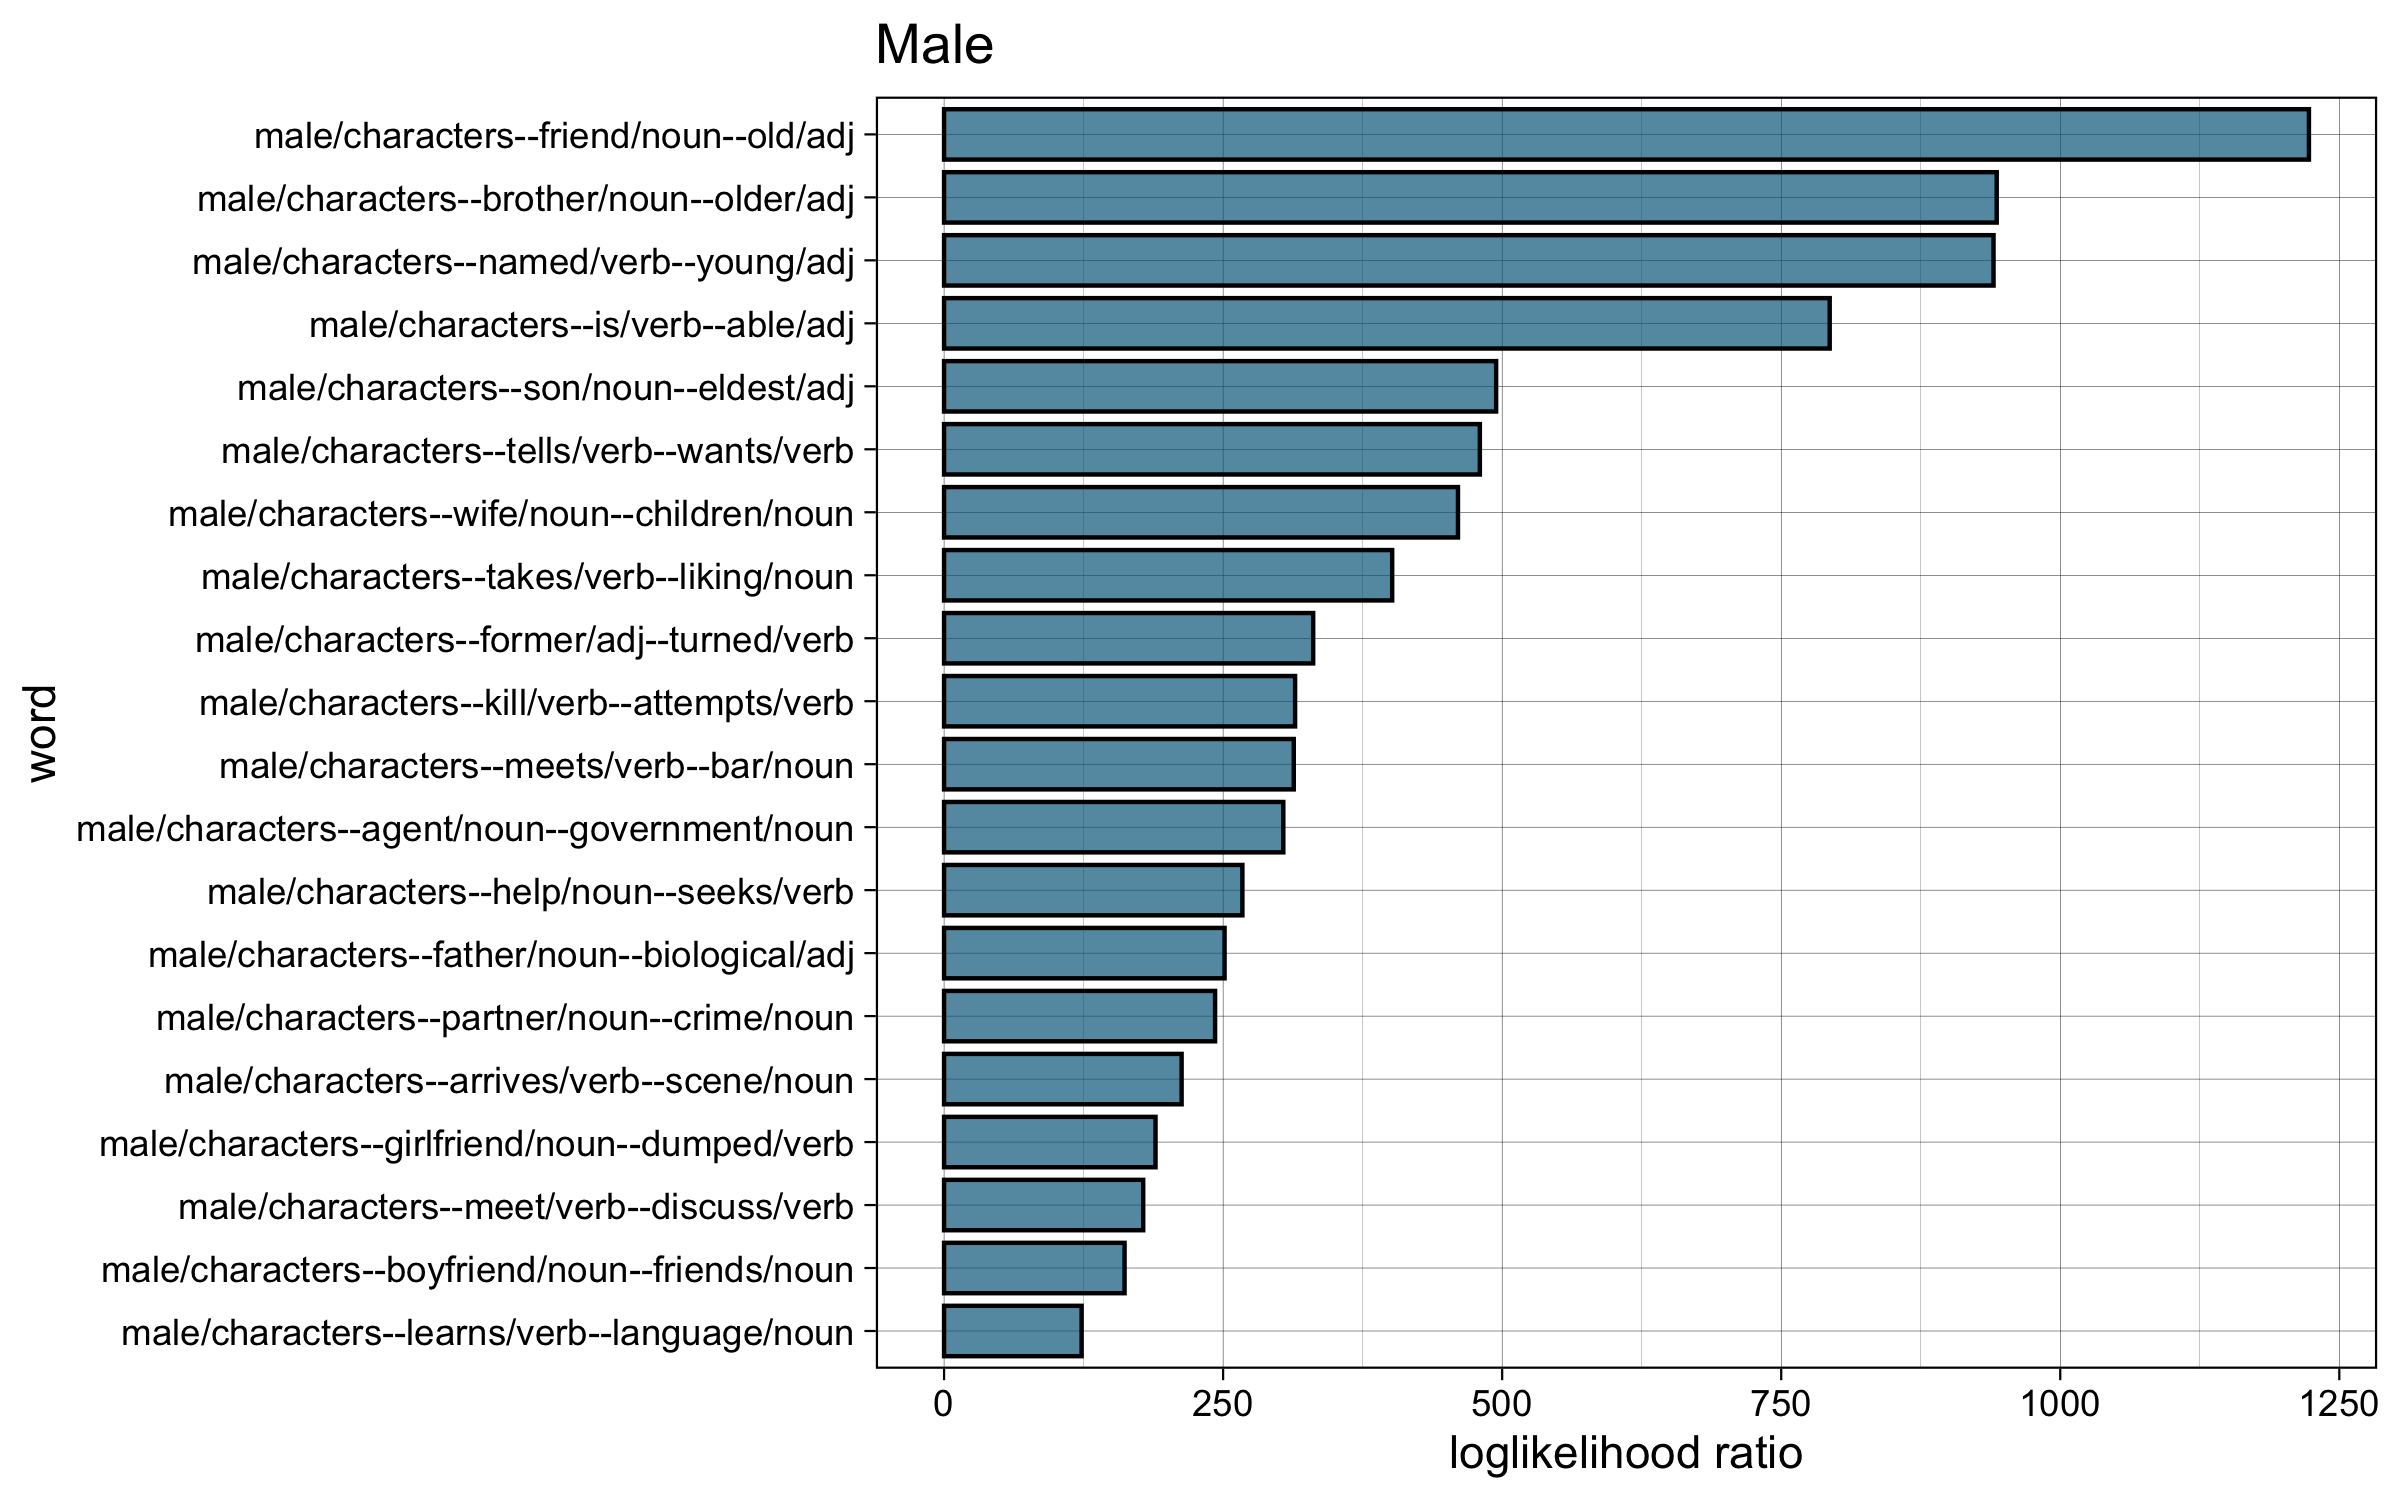
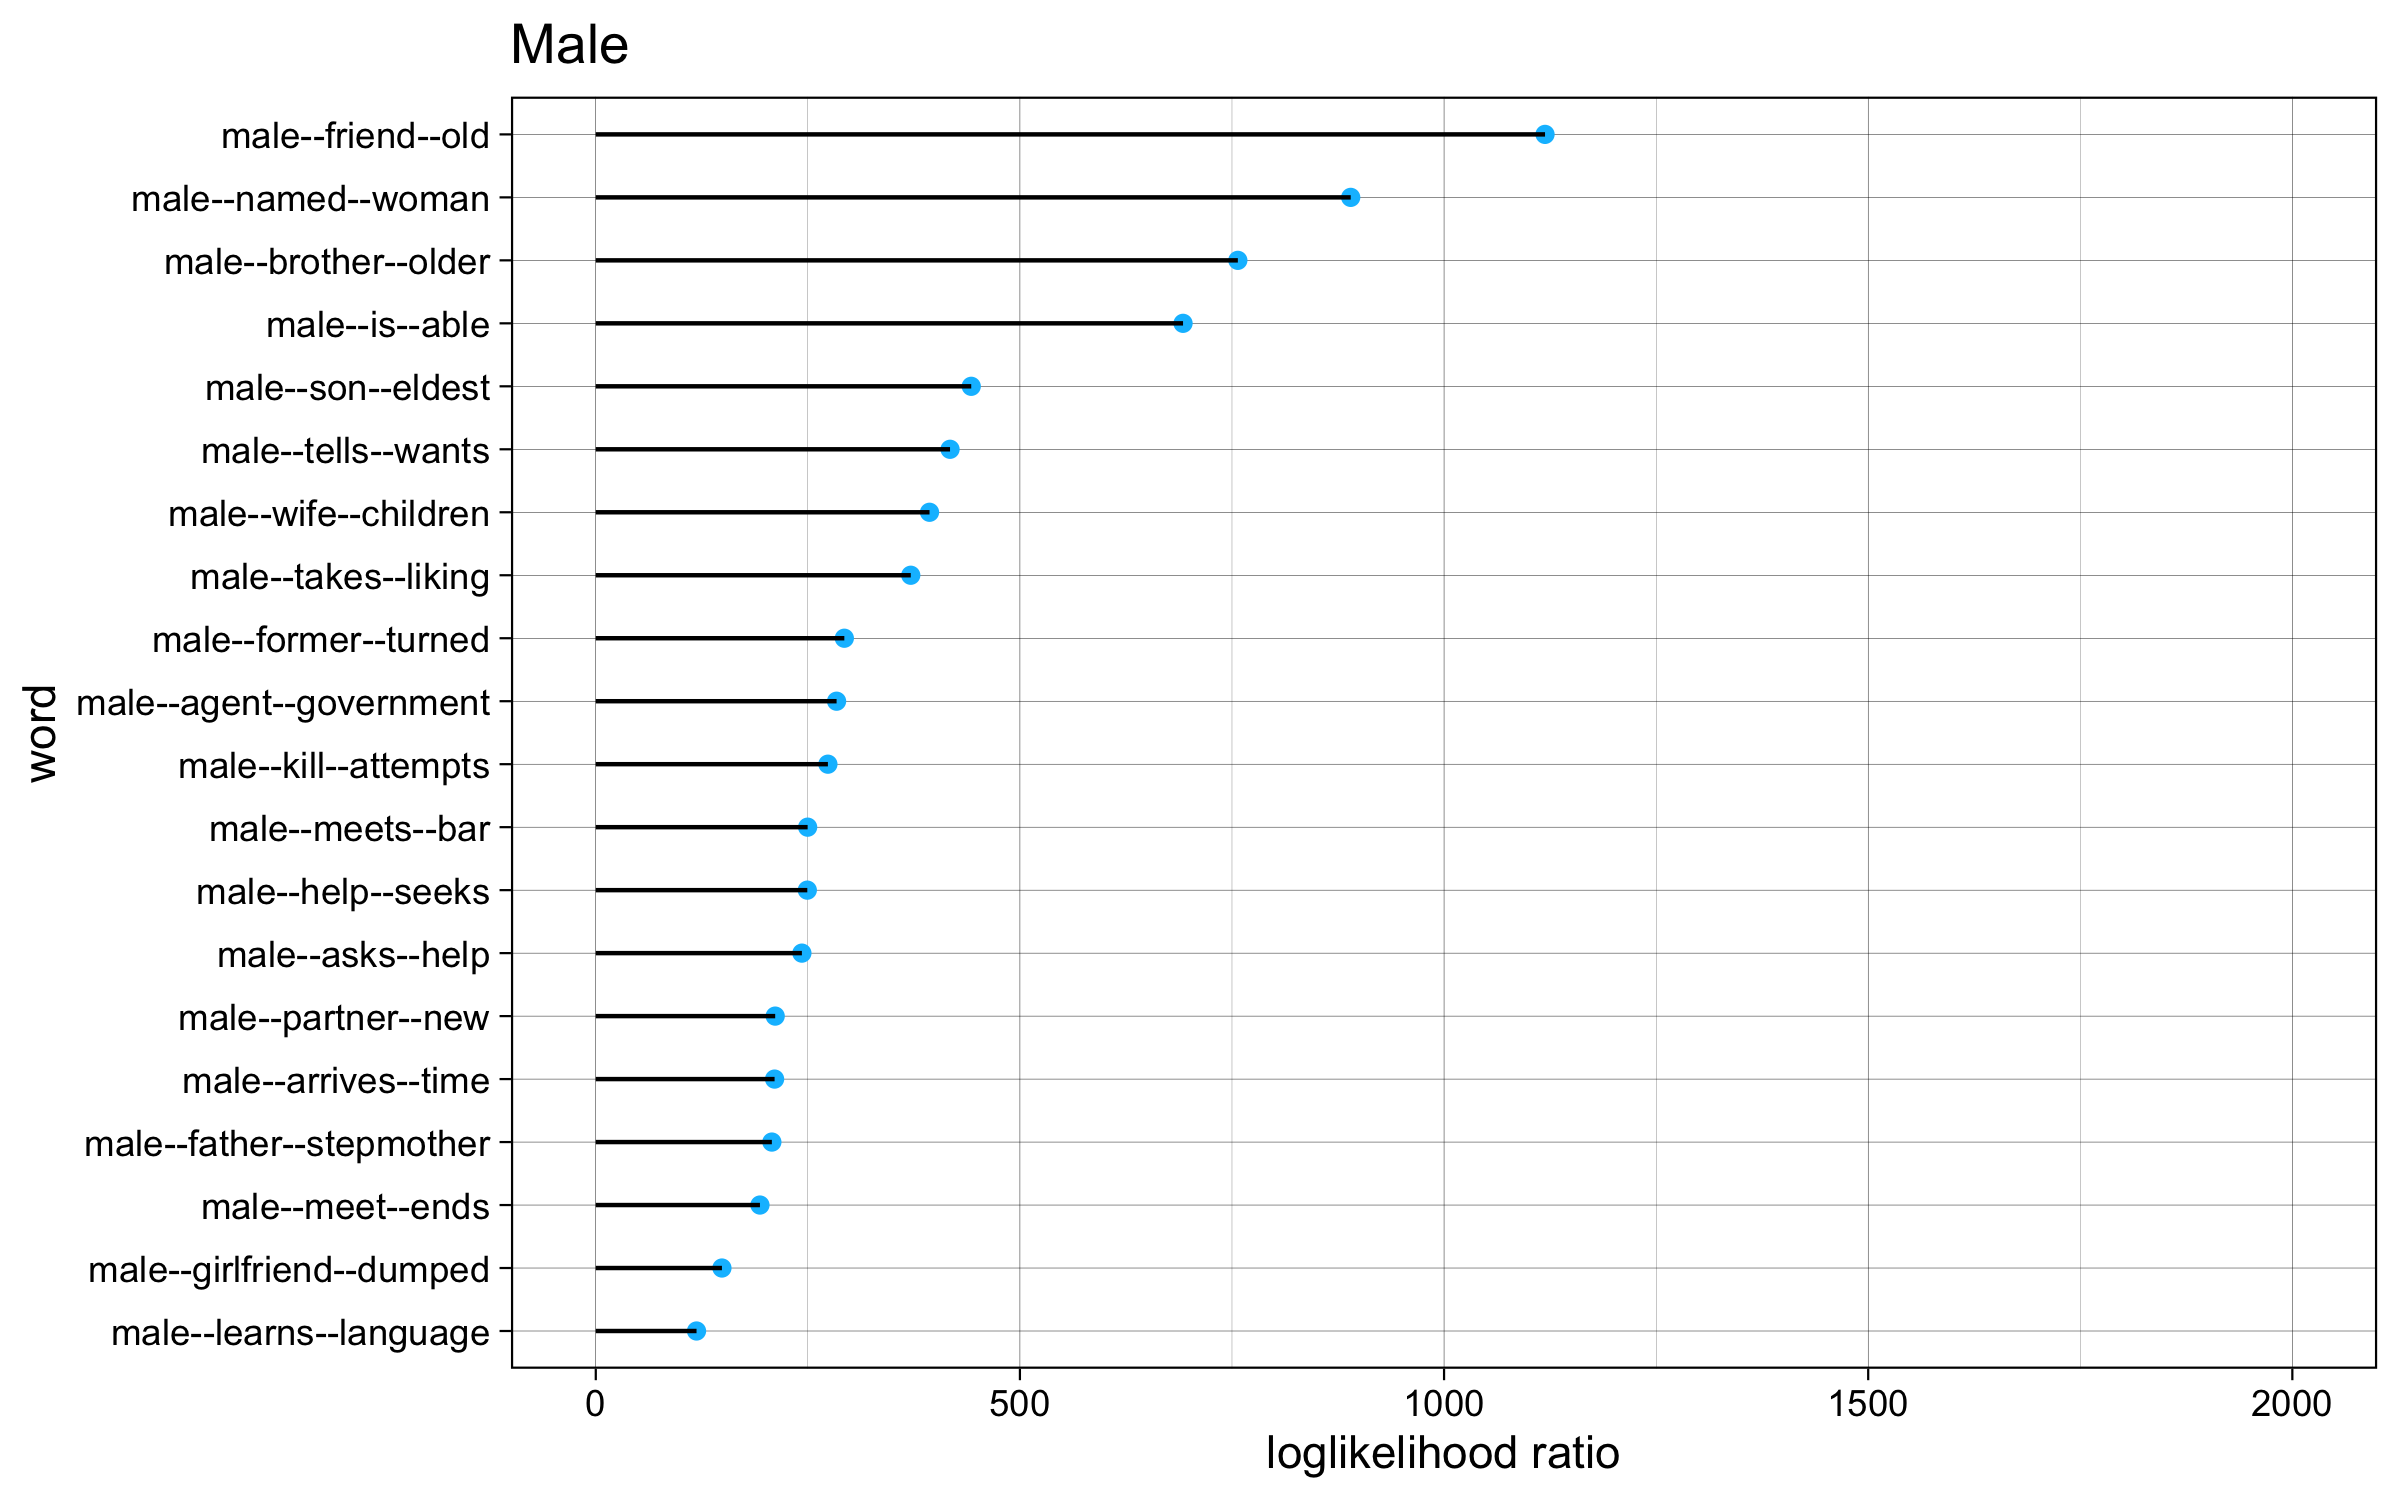
change bar plot to line plot

diff --git a/docs/README.md b/docs/README.md
@@ -677,7 +677,7 @@ fprimary_tropes = female_ps
 # Most Common Roles, Actions and Descriptions
 
 ``` r
-ll_bar <- function(pos = 'noun', n = 21, ylimit = 1800){
+ll_bar <- function(pos = 'noun', n = 21, xlimit = 1800, yax = 'noun'){
 graph = grapherdemo(21, token_filter3(pos, 1940, 2020, token.all))
 female_primary = graph[[2]] #20 female primary nodes
 male_primary = graph[[3]] #20 male primary nodes
@@ -687,76 +687,55 @@ male_primary = male_primary[names(male_primary) != 'female/characters']
 male_primary = male_primary[1:(n-1)]
 male_np = data.frame(word = names(male_primary), llr = male_primary)
 male_np$gender = 'male'
+male_np <- male_np %>% separate(word, c('word', NA), sep = '/')
 
-mn = ggplot(male_np, aes(x = reorder(word, llr), y = llr)) +
-  geom_bar(stat = 'identity', fill = 'deepskyblue4', 
-           alpha = 0.7, color = 'black') + coord_flip() +
-           xlab('word') + ylab('loglikelihood ratio') + ylim(0, ylimit) +
-           theme_linedraw() + theme(axis.title.x=element_blank(),
-                              axis.text.x=element_blank(),
-                              axis.ticks.x=element_blank()) +
-        ggtitle('Male')
+mn = ggplot(male_np, aes(y = reorder(word, llr), x = llr)) +
+   geom_point(color = 'deepskyblue') +
+   geom_segment(aes(x = 0, y = word, xend = llr, yend = word)) +
+   xlab('loglikelihood ratio') + ylab(yax) + theme_linedraw() +
+   ggtitle('Male') #+ ylim(0, 1200) # + geom_text(aes(label = round(llr, 2)), hjust=-0.3, size = 2) #+ coord_flip() 
 
 female_primary = female_primary[names(female_primary) != 'male/characters']
 female_primary = female_primary[1:20]
 female_np = data.frame(word = names(female_primary), llr = female_primary)
 female_np$gender = 'female'
 
-fn = ggplot(female_np, aes(x = reorder(word, -llr), y = llr)) +
-  geom_bar(stat = 'identity', fill = 'darkorange3', 
-           alpha = 0.7, color = 'black') + coord_flip() +
-           xlab('word') + ylab('loglikelihood ratio') + theme_linedraw() +
-  ylim(0, ylimit) + ggtitle('Female')
+female_np <- female_np %>% separate(word, c('word', NA), sep = '/')
+
+fn = ggplot(female_np, aes(y = reorder(word, -llr), x = llr)) +
+   geom_point(color = 'darkorange') +
+   geom_segment(aes(x = 0, y = word, xend = llr, yend = word)) +
+   xlab('loglikelihood ratio') + ylab(yax) + theme_linedraw() +
+   ggtitle('Female') #+ ylim(0, 1200)# + geom_text(aes(label = round(llr, 2)), hjust=-0.3, size = 2) #+ coord_flip() 
 
 par(mfrow=c(1,2))
 wordcloud(words = male_np$word, freq = male_np$llr, colors = 'deepskyblue3')
 wordcloud(words = female_np$word, freq = male_np$llr, colors = 'darkorange3')
 
-grid.arrange(mn, fn)
+grid.arrange(mn + xlim(0, xlimit), fn + xlim(0, xlimit))
 }
 ```
 
 ## Common Roles - Nouns
 
 ``` r
-ll_bar('noun')
+ll_bar('noun', xlimit = 1075, yax = 'noun')
 ```
-
-    ## Warning in wordcloud(words = male_np$word, freq = male_np$llr, colors =
-    ## "deepskyblue3"): friend/noun could not be fit on page. It will not be plotted.
-
-    ## Warning in wordcloud(words = female_np$word, freq = male_np$llr, colors =
-    ## "darkorange3"): daughter/noun could not be fit on page. It will not be plotted.
-
-    ## Warning in wordcloud(words = female_np$word, freq = male_np$llr, colors =
-    ## "darkorange3"): love/noun could not be fit on page. It will not be plotted.
-
-    ## Warning in wordcloud(words = female_np$word, freq = male_np$llr, colors =
-    ## "darkorange3"): sister/noun could not be fit on page. It will not be plotted.
 
 ![](README_files/figure-gfm/unnamed-chunk-16-1.png)<!-- -->![](README_files/figure-gfm/unnamed-chunk-16-2.png)<!-- -->
 ## Common Actions - Verbs
 
 ``` r
-ll_bar('verb', ylimit = 700)
+ll_bar('verb', xlimit = 450, yax = 'verb')
 ```
-
-    ## Warning in wordcloud(words = male_np$word, freq = male_np$llr, colors =
-    ## "deepskyblue3"): named/verb could not be fit on page. It will not be plotted.
-
-    ## Warning in wordcloud(words = female_np$word, freq = male_np$llr, colors =
-    ## "darkorange3"): meets/verb could not be fit on page. It will not be plotted.
 
 ![](README_files/figure-gfm/unnamed-chunk-17-1.png)<!-- -->![](README_files/figure-gfm/unnamed-chunk-17-2.png)<!-- -->
 
 ## Common Descriptions - Adjectives
 
 ``` r
-ll_bar('adj', ylimit = 400)
+ll_bar('adj', xlimit = 250, yax = 'adjective')
 ```
-
-    ## Warning in wordcloud(words = female_np$word, freq = male_np$llr, colors =
-    ## "darkorange3"): pregnant/adj could not be fit on page. It will not be plotted.
 
 ![](README_files/figure-gfm/unnamed-chunk-18-1.png)<!-- -->![](README_files/figure-gfm/unnamed-chunk-18-2.png)<!-- -->
 
